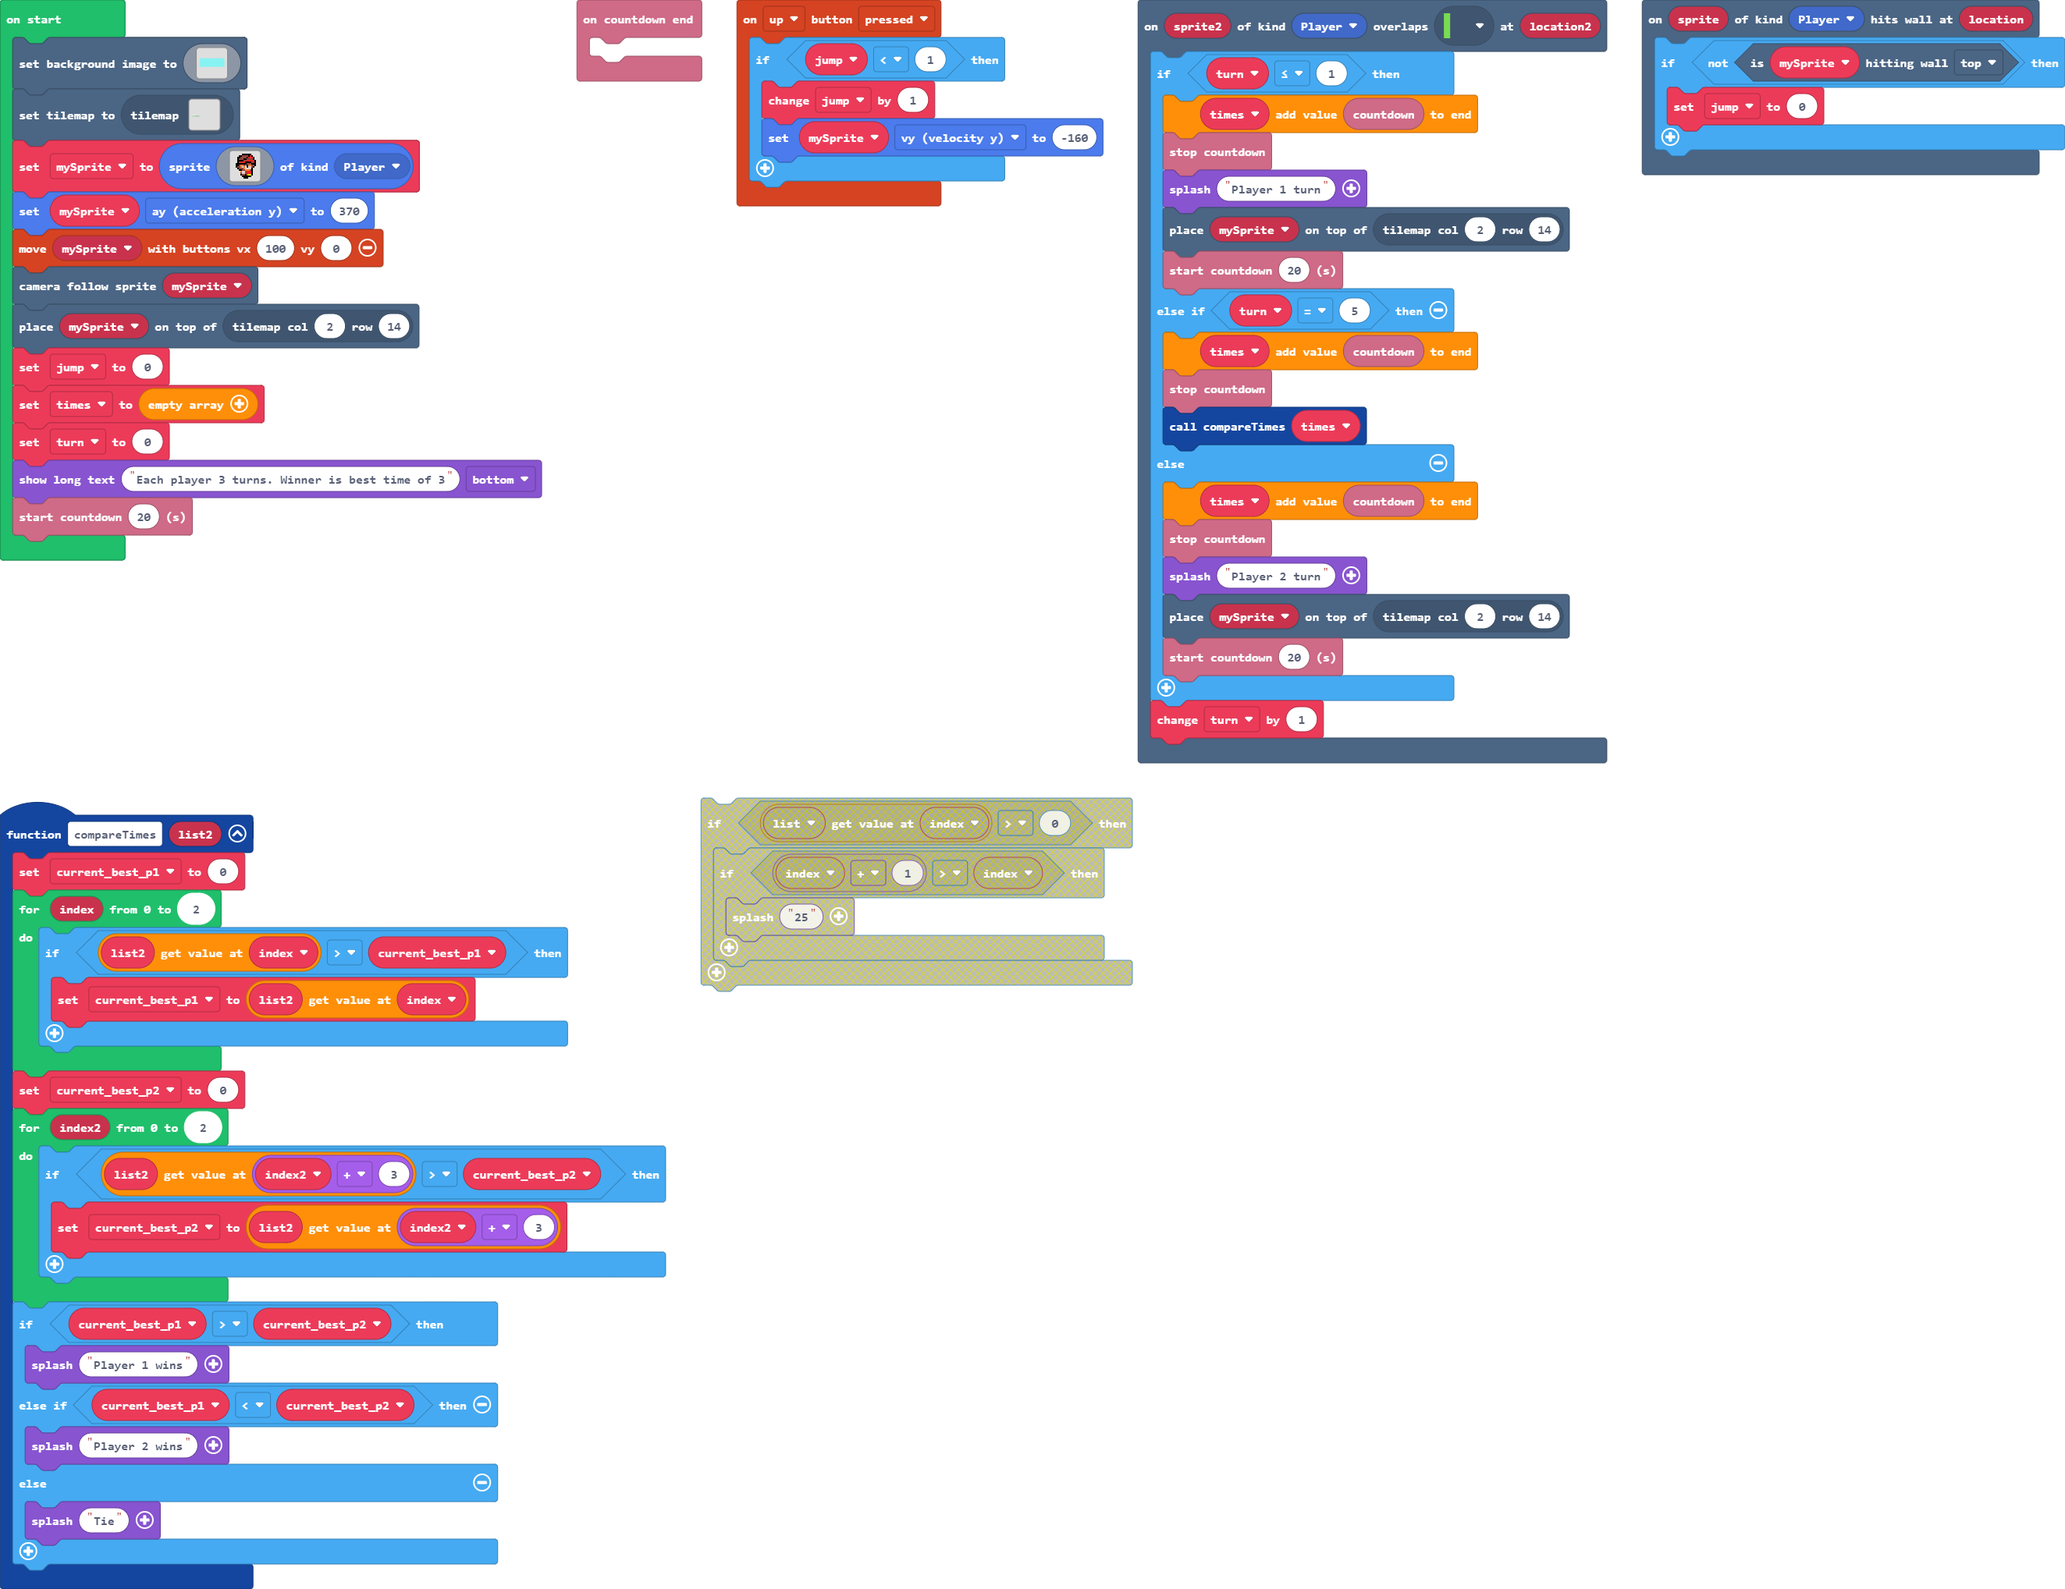
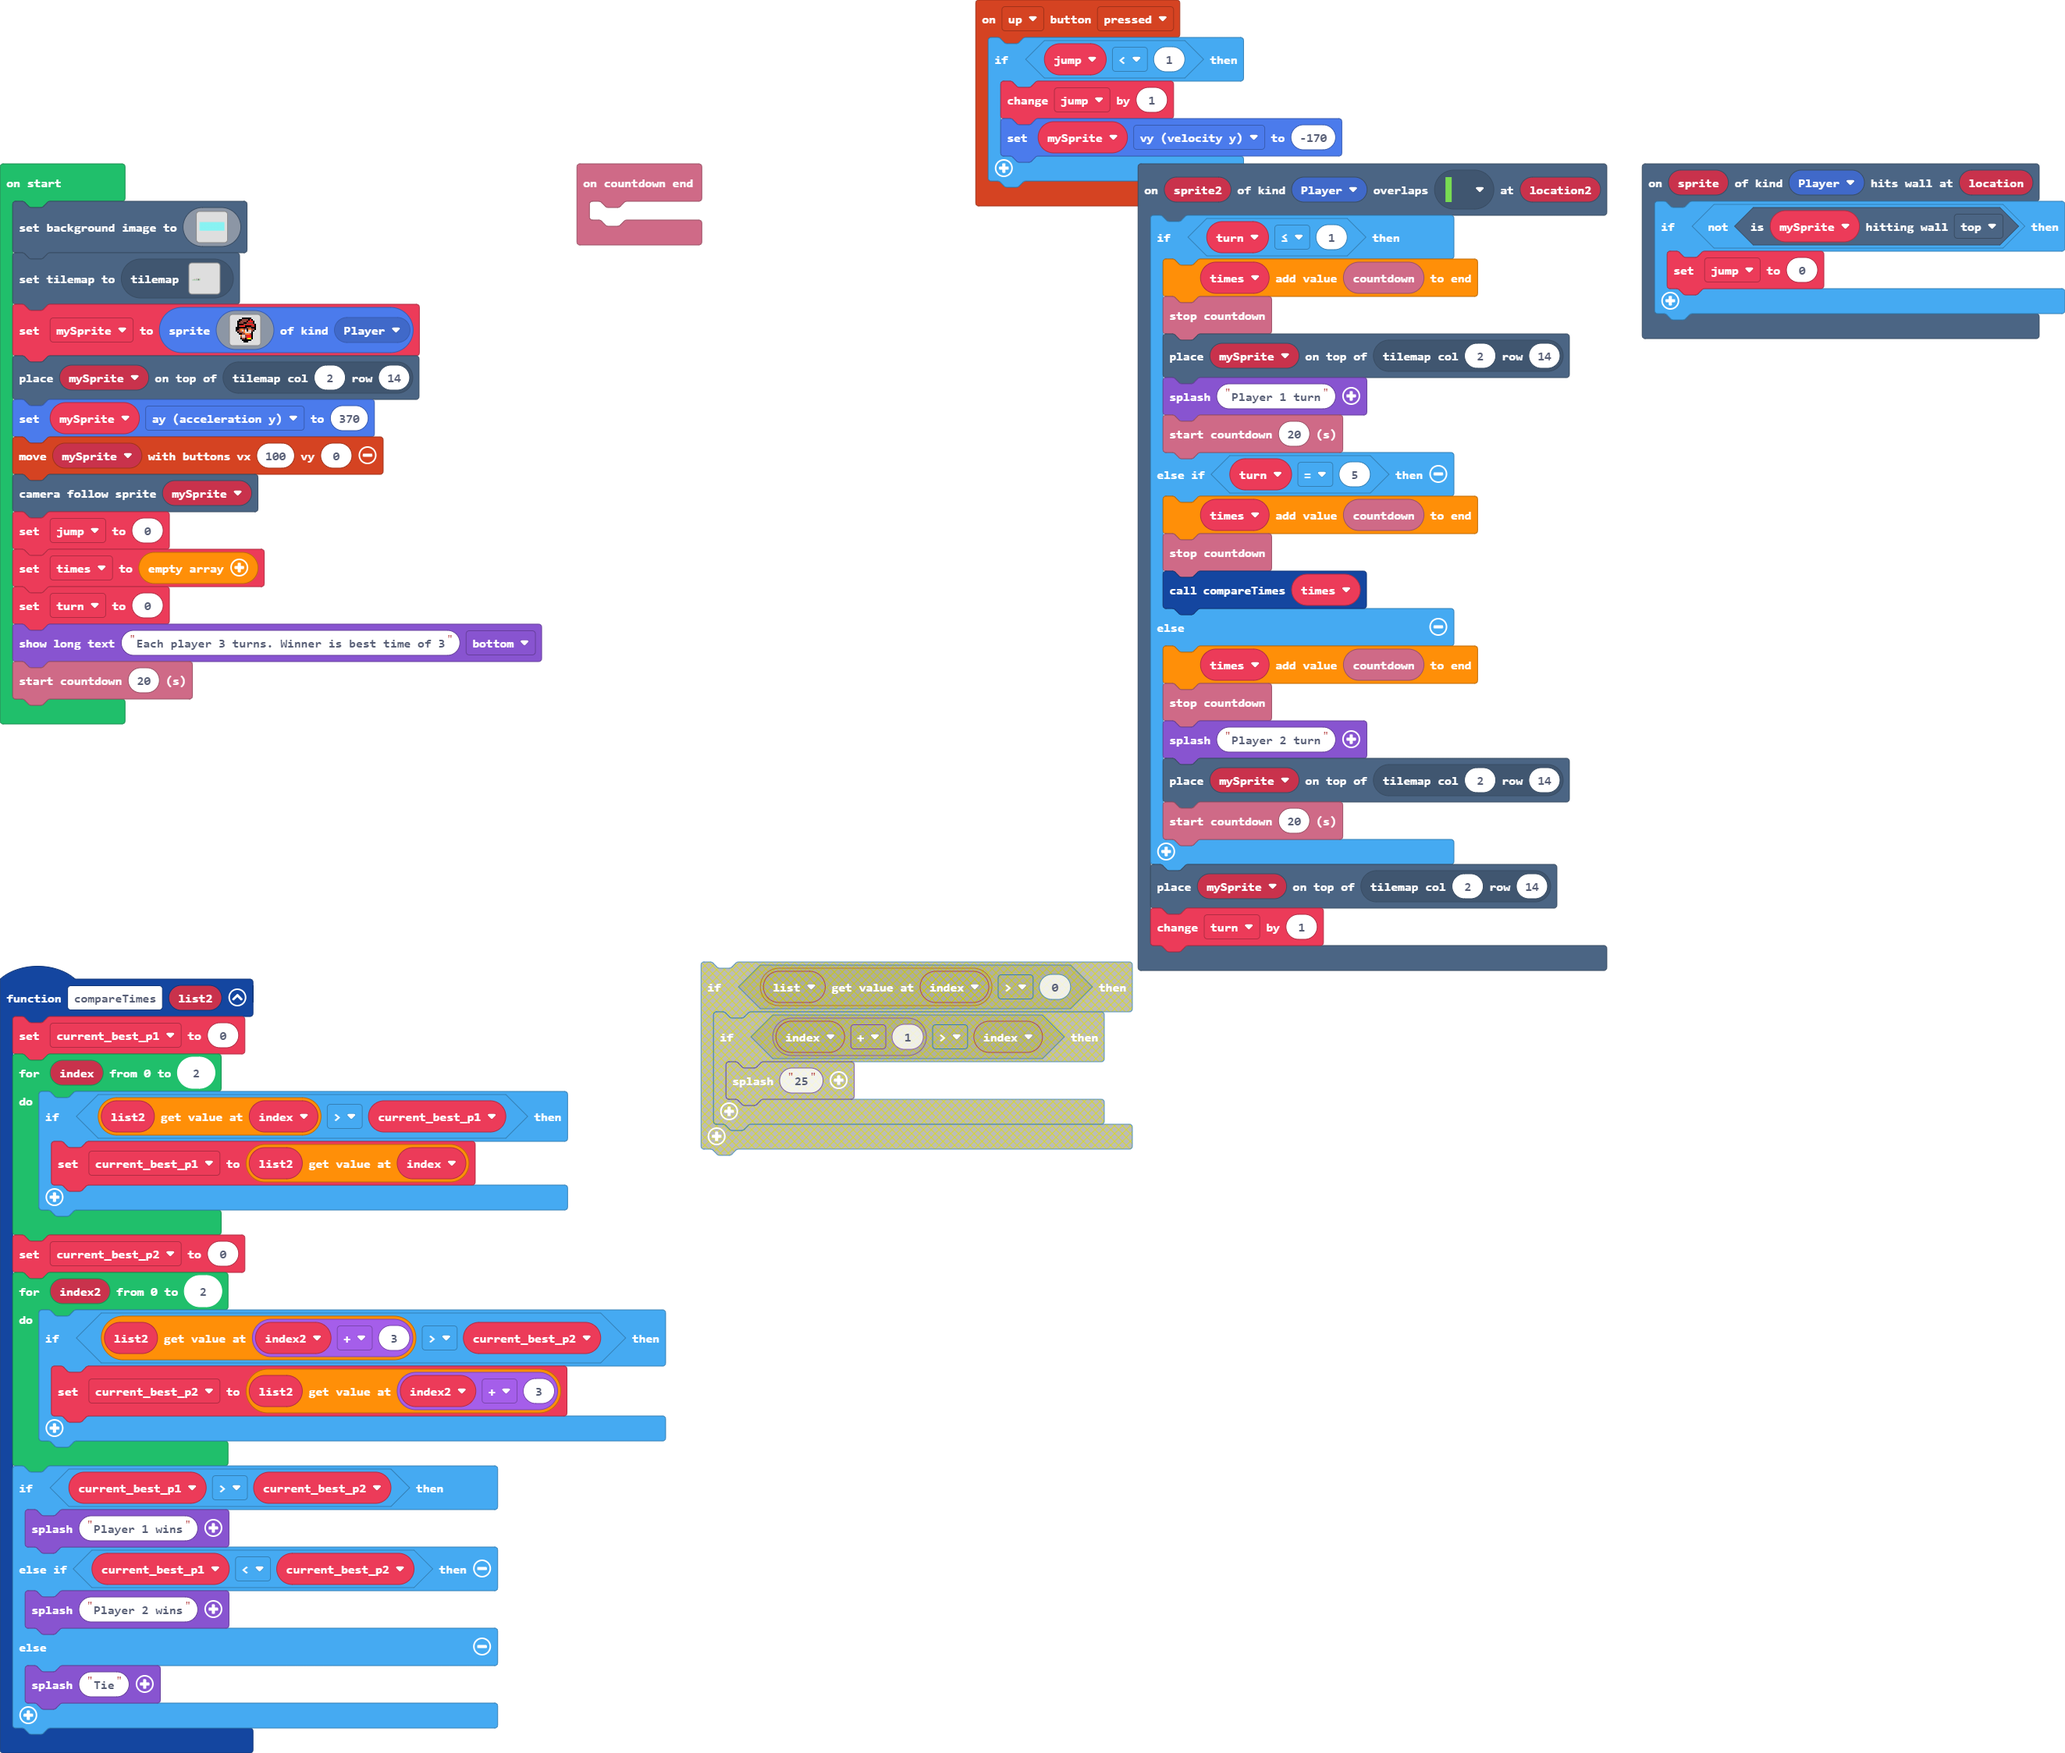
Update main.blocks, main.ts, tilemap.g.jres, tilemap.g.ts

diff --git a/tilemap.g.ts b/tilemap.g.ts
@@ -7,15 +7,17 @@ namespace myTiles {
     //% fixedInstance jres blockIdentity=images._tile
     export const tile2 = image.ofBuffer(hex``);
     //% fixedInstance jres blockIdentity=images._tile
-    export const tile3 = image.ofBuffer(hex``);
-    //% fixedInstance jres blockIdentity=images._tile
-    export const tile4 = image.ofBuffer(hex``);
-    //% fixedInstance jres blockIdentity=images._tile
     export const tile5 = image.ofBuffer(hex``);
     //% fixedInstance jres blockIdentity=images._tile
     export const tile6 = image.ofBuffer(hex``);
     //% fixedInstance jres blockIdentity=images._tile
     export const tile7 = image.ofBuffer(hex``);
+    //% fixedInstance jres blockIdentity=images._tile
+    export const tile4 = image.ofBuffer(hex``);
+    //% fixedInstance jres blockIdentity=images._tile
+    export const tile3 = image.ofBuffer(hex``);
+    //% fixedInstance jres blockIdentity=images._tile
+    export const tile8 = image.ofBuffer(hex``);
 
     helpers._registerFactory("tilemap", function(name: string) {
         switch(helpers.stringTrim(name)) {
@@ -96,24 +98,24 @@ namespace myTiles {
 . . . . . . . . . . . . . . . . 
 `, [myTiles.transparency16], TileScale.Sixteen);
             case "level1":
-            case "level1":return tiles.createTilemap(hex`6400100000000000000000000000000000000000000000000000000000000000000000000000000000000000000000000000000000000000000000000000000000000000000000000000000000000000000000000000000000000000000000000000000000000000000000000000000000000000000000000000000000000000000000000000000000000000000000000000000000000000000000000000000000000000000000000000000000000000000000000000000000000000000000000000000000000000000000000000000000000000000000000000000000000000000000000000000000000000000000000000000000000000000000000000000000000000000000000000000000000000000000000000000000000000000000000000000000000000000000000000000000000000000000000000000000000000000000000000000000000000000000000000000000000000000000000000000000000000000000000000000000000000000000000000000000000000000000000000000000000000000000000000000000000000000000000000000000000000000000000000000000000000000000000000000000000000000000000000000000000000000000000000000000000000000000000000000000000000000000000000000000000000000000000000000000000000000000000000000000000000000000000000000000000000000000000000000000000000000000000000000000000000000000000000000000000000000000000000000000000000000000000000000000000000000000000000000000000000000000000000000000000000000000000000000000000000000000000000000000000000000000000000000000000000000000000000000000000000000000000000000000000000000000000000000000000000000000000000000000000000000000000000000000000000000000000000000000000000000000000000000000000000000000000000000000000000000000000000000000000000000000000000000000000000000000000000000000000000000000000000000000000000000000000000000000000000000000000007000000080000000000000000000000000000000000000000000000000000000000000000000000000000000000000000000000000000000000000000000000000000000000000000000000000000000000000000000000000000000000000000000000000000000000000000000000000000000700000000000007000000000000000000000000000000000000000000000000000000000000000000000000000000000000000000000000000000000000000000000000000000000000000000000000000000000000000807070000000000080700000800000000070000000000000000000000000000000000000000000000000000000000000000000000000000000000000000000000000000000000000000000000000000000000000000000000000000000000000000000000000000080800000000000006000000000000070000000000000000000000000000000000000000000000000000000000000000000000000000000000000000000000000000000000000000000000000000000000000000000000000000000000000000000000000000000000000000050000000003000000000000000000000000000000000000000000000000000000000000000000000000000000000000000000000000000000000000000000000000000000000000000000000000000000000000000000000000000000000000000000000500000000030000000000000000000000000000000000000000000000000000000000000000000000000000000000000000000000000000000000000000000000000000000000000000000000000000000000000000000000000000050000000000000005020101010100000000000000000000000000000000000000000000000000000000000000000000000000000000000000000000000000000000000000000000000000000000000000000000000000000000000001010101010101010101010101010101010101010101040404040404040404040000000000000000000000000000000000000000000000000000000000000000000000000000000000000000000000000000000000000000000000000000000000000000`, img`
-....................................................................................................
-....................................................................................................
-....................................................................................................
-....................................................................................................
-....................................................................................................
-....................................................................................................
-....................................................................................................
-....................................................................................................
-....................................................................................................
-....................................................................................................
-....................................................................................................
-....................................................................................................
-.....................2..............................................................................
-.....................2..............................................................................
-.................22222..............................................................................
-22222222222222222222222222222222....................................................................
-`, [myTiles.transparency16,sprites.builtin.forestTiles2,sprites.builtin.forestTiles1,sprites.castle.tileDarkGrass3,sprites.builtin.forestTiles0,myTiles.tile4,myTiles.tile3,myTiles.tile6,myTiles.tile7], TileScale.Sixteen);
[1 lines of base64/hex data omitted]
+................................2...................................................................
+................................22..................................................................
+................................22..................................................................
+................................22..................................................................
+................................22..................................................................
+................................22..................................................................
+................................22..................................................................
+................................22..................................................................
+................................22..................................................................
+................................22..................................................................
+.................222.22.........22..................................................................
+.................2.......222....22..................................................................
+.........222.....2.....2........22..................................................................
+................................22..................................................................
+.................22222..........2...................................................................
+2222222222222222222222222...22222...................................................................
+`, [myTiles.transparency16,sprites.builtin.forestTiles2,sprites.builtin.forestTiles1,myTiles.tile8,sprites.builtin.forestTiles5,sprites.builtin.forestTiles9,sprites.builtin.forestTiles6,sprites.builtin.forestTiles7,sprites.builtin.forestTiles10,sprites.builtin.forestTiles11,sprites.builtin.forestTiles3,sprites.builtin.forestTiles4,myTiles.tile4,myTiles.tile3], TileScale.Sixteen);
         }
         return null;
     })
@@ -125,16 +127,18 @@ namespace myTiles {
             case "tile1":return tile1;
             case "myTile0":
             case "tile2":return tile2;
-            case "myTile1":
-            case "tile3":return tile3;
-            case "myTile2":
-            case "tile4":return tile4;
             case "myTile3":
             case "tile5":return tile5;
             case "myTile4":
             case "tile6":return tile6;
             case "myTile5":
             case "tile7":return tile7;
+            case "myTile2":
+            case "tile4":return tile4;
+            case "myTile1":
+            case "tile3":return tile3;
+            case "myTile6":
+            case "tile8":return tile8;
         }
         return null;
     })

diff --git a/main.ts b/main.ts
@@ -1,7 +1,7 @@
 controller.up.onEvent(ControllerButtonEvent.Pressed, function () {
     if (jump < 1) {
         jump += 1
-        mySprite.vy = -160
+        mySprite.vy = -170
     }
 })
 scene.onHitWall(SpriteKind.Player, function (sprite, location) {
@@ -37,8 +37,8 @@ scene.onOverlapTile(SpriteKind.Player, assets.tile`myTile2`, function (sprite2, 
     if (turn <= 1) {
         times.push(info.countdown())
         info.stopCountdown()
-        game.splash("Player 1 turn")
         tiles.placeOnTile(mySprite, tiles.getTileLocation(2, 14))
+        game.splash("Player 1 turn")
         info.startCountdown(20)
     } else if (turn == 5) {
         times.push(info.countdown())
@@ -51,6 +51,7 @@ scene.onOverlapTile(SpriteKind.Player, assets.tile`myTile2`, function (sprite2, 
         tiles.placeOnTile(mySprite, tiles.getTileLocation(2, 14))
         info.startCountdown(20)
     }
+    tiles.placeOnTile(mySprite, tiles.getTileLocation(2, 14))
     turn += 1
 })
 let current_best_p2 = 0
@@ -200,10 +201,10 @@ mySprite = sprites.create(img`
     . . . . . . f f f f f f . . . . 
     . . . . . . . f f f . . . . . . 
     `, SpriteKind.Player)
+tiles.placeOnTile(mySprite, tiles.getTileLocation(2, 14))
 mySprite.ay = 370
 controller.moveSprite(mySprite, 100, 0)
 scene.cameraFollowSprite(mySprite)
-tiles.placeOnTile(mySprite, tiles.getTileLocation(2, 14))
 jump = 0
 times = []
 turn = 0
